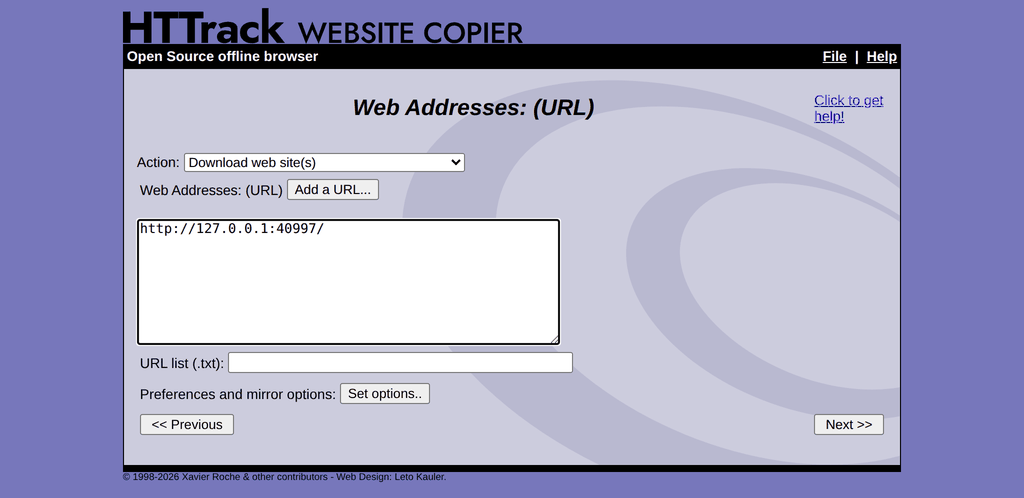
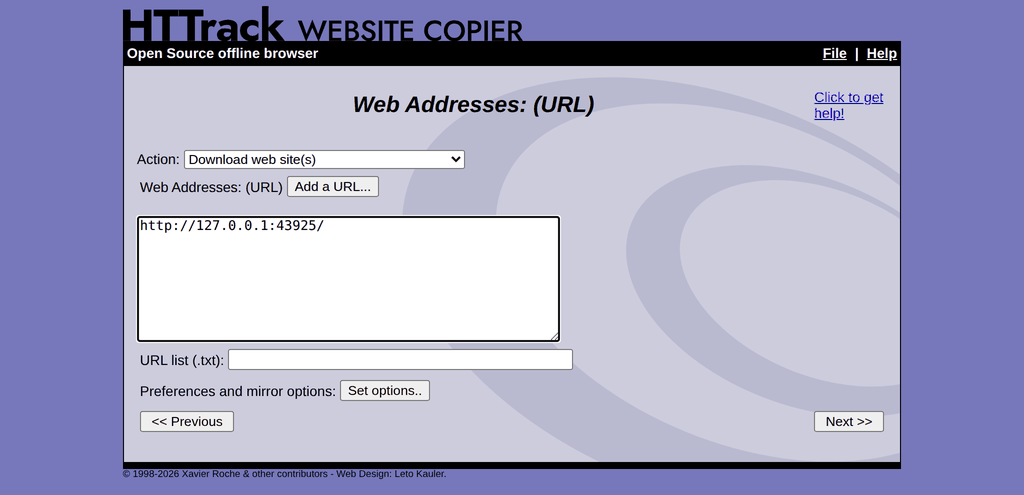
Reshoot the WebHTTrack screenshots after the masthead fix
Every screen carries the masthead, so ef100363 dated all eighteen.

diff --git a/html/guide.html b/html/guide.html
@@ -122,7 +122,7 @@ data-for="droid">Tap <b>Next</b></span> to create a project, or open one you alr
 
 <figure>
 	<img data-for="win" src="img/guide-win-start.png" alt="WinHTTrack welcome pane" width="1040" height="744">
-	<img data-for="web" src="img/guide-web-start.png" alt="WebHTTrack welcome page" width="1024" height="390">
+	<img data-for="web" src="img/guide-web-start.png" alt="WebHTTrack welcome page" width="1024" height="387">
 	<img data-for="droid" src="img/guide-droid-start.png" alt="HTTrack for Android welcome screen" width="600" height="1300">
 	<figcaption>The welcome screen.</figcaption>
 </figure>
@@ -143,7 +143,7 @@ together in the list.</p>
 
 <figure>
 	<img data-for="win" src="img/guide-win-project-name.png" alt="WinHTTrack project name, category and base path" width="1040" height="744">
-	<img data-for="web" src="img/guide-web-project-name.png" alt="WebHTTrack project name, category and base path" width="1024" height="348">
+	<img data-for="web" src="img/guide-web-project-name.png" alt="WebHTTrack project name, category and base path" width="1024" height="345">
 	<img data-for="droid" src="img/guide-droid-project-name.png" alt="Android project name, category and base path" width="600" height="1300">
 	<figcaption>Project name, category, and where the files go.</figcaption>
 </figure>
@@ -162,7 +162,7 @@ keep their links to each other.</p>
 
 <figure>
 	<img data-for="win" src="img/guide-win-project-setup.png" alt="WinHTTrack action and web addresses" width="1040" height="744">
-	<img data-for="web" src="img/guide-web-project-setup.png" alt="WebHTTrack action and web addresses" width="1024" height="498">
+	<img data-for="web" src="img/guide-web-project-setup.png" alt="WebHTTrack action and web addresses" width="1024" height="495">
 	<img data-for="droid" src="img/guide-droid-project-setup.png" alt="Android web address and action" width="600" height="1300">
 	<figcaption>The addresses to copy, and what to do with them.</figcaption>
 </figure>
@@ -217,7 +217,7 @@ port, you point your browser at it as a proxy and click the link or the submit b
 usual, and the address the browser asks for is added to the project.</p>
 
 <figure data-for="web">
-	<img data-for="web" src="img/guide-web-add-url.png" alt="WebHTTrack add-a-URL dialog" width="1024" height="605">
+	<img data-for="web" src="img/guide-web-add-url.png" alt="WebHTTrack add-a-URL dialog" width="1024" height="600">
 	<figcaption>Adding a single address, with an optional login.</figcaption>
 </figure>
 
@@ -246,7 +246,7 @@ mirror straight away.</p>
 
 <figure data-for="win web">
 	<img data-for="win" src="img/guide-win-ready.png" alt="WinHTTrack connection settings before starting" width="1040" height="744">
-	<img data-for="web" src="img/guide-web-ready.png" alt="WebHTTrack ready to start" width="1024" height="492">
+	<img data-for="web" src="img/guide-web-ready.png" alt="WebHTTrack ready to start" width="1024" height="489">
 	<figcaption>The last screen before the mirror runs.</figcaption>
 </figure>
 
@@ -259,7 +259,7 @@ polite.</p>
 
 <figure>
 	<img data-for="win" src="img/guide-win-progress.png" alt="WinHTTrack mirror in progress" width="1040" height="744">
-	<img data-for="web" src="img/guide-web-progress.png" alt="WebHTTrack mirror in progress" width="1024" height="744">
+	<img data-for="web" src="img/guide-web-progress.png" alt="WebHTTrack mirror in progress" width="1024" height="742">
 	<img data-for="droid" src="img/guide-droid-progress.png" alt="Android mirror in progress" width="600" height="1300">
 	<figcaption>A crawl in flight.</figcaption>
 </figure>
@@ -279,7 +279,7 @@ mirrored pages are rewritten to point at each other, so it browses offline in an
 
 <figure>
 	<img data-for="win" src="img/guide-win-finished.png" alt="WinHTTrack mirror complete" width="1040" height="744">
-	<img data-for="web" src="img/guide-web-finished.png" alt="WebHTTrack mirror complete" width="1024" height="489">
+	<img data-for="web" src="img/guide-web-finished.png" alt="WebHTTrack mirror complete" width="1024" height="486">
 	<img data-for="droid" src="img/guide-droid-finished.png" alt="Android mirror complete" width="600" height="1300">
 	<figcaption>Done.</figcaption>
 </figure>
@@ -328,7 +328,7 @@ interface shows it, and the command-line option it corresponds to.</p>
 
 <figure>
 	<img data-for="win" src="img/guide-win-opt-scan-rules.png" alt="WinHTTrack Scan Rules tab" width="524" height="448">
-	<img data-for="web" src="img/guide-web-opt-scan-rules.png" alt="WebHTTrack Scan Rules tab" width="1024" height="998">
+	<img data-for="web" src="img/guide-web-opt-scan-rules.png" alt="WebHTTrack Scan Rules tab" width="1024" height="995">
 	<img data-for="droid" src="img/guide-droid-opt-scan-rules.png" alt="Android Scan Rules tab" width="600" height="1300">
 </figure>
 
@@ -365,7 +365,7 @@ is on the <a href="filters.html">filter page</a>.</p>
 
 <figure>
 	<img data-for="win" src="img/guide-win-opt-limits.png" alt="WinHTTrack Limits tab" width="524" height="448">
-	<img data-for="web" src="img/guide-web-opt-limits.png" alt="WebHTTrack Limits tab" width="1024" height="1019">
+	<img data-for="web" src="img/guide-web-opt-limits.png" alt="WebHTTrack Limits tab" width="1024" height="1016">
 	<img data-for="droid" src="img/guide-droid-opt-limits.png" alt="Android Limits tab" width="600" height="1300">
 </figure>
 
@@ -443,7 +443,7 @@ bottom are the ones that keep you welcome.</p>
 
 <figure>
 	<img data-for="win" src="img/guide-win-opt-flow-control.png" alt="WinHTTrack Flow Control tab" width="524" height="448">
-	<img data-for="web" src="img/guide-web-opt-flow-control.png" alt="WebHTTrack Flow Control tab" width="1024" height="866">
+	<img data-for="web" src="img/guide-web-opt-flow-control.png" alt="WebHTTrack Flow Control tab" width="1024" height="862">
 	<img data-for="droid" src="img/guide-droid-opt-flow-control.png" alt="Android Flow Control tab" width="600" height="1300">
 </figure>
 
@@ -486,7 +486,7 @@ bottom are the ones that keep you welcome.</p>
 
 <figure>
 	<img data-for="win" src="img/guide-win-opt-links.png" alt="WinHTTrack Links tab" width="524" height="448">
-	<img data-for="web" src="img/guide-web-opt-links.png" alt="WebHTTrack Links tab" width="1024" height="752">
+	<img data-for="web" src="img/guide-web-opt-links.png" alt="WebHTTrack Links tab" width="1024" height="749">
 	<img data-for="droid" src="img/guide-droid-opt-links.png" alt="Android Links tab" width="600" height="1300">
 </figure>
 
@@ -523,7 +523,7 @@ bottom are the ones that keep you welcome.</p>
 
 <figure>
 	<img data-for="win" src="img/guide-win-opt-build.png" alt="WinHTTrack Build tab" width="524" height="448">
-	<img data-for="web" src="img/guide-web-opt-build.png" alt="WebHTTrack Build tab" width="1024" height="979">
+	<img data-for="web" src="img/guide-web-opt-build.png" alt="WebHTTrack Build tab" width="1024" height="976">
 	<img data-for="droid" src="img/guide-droid-opt-build.png" alt="Android Build tab" width="600" height="1300">
 </figure>
 
@@ -589,7 +589,7 @@ bottom are the ones that keep you welcome.</p>
 
 <figure>
 	<img data-for="win" src="img/guide-win-opt-browser-id.png" alt="WinHTTrack Browser ID tab" width="524" height="448">
-	<img data-for="web" src="img/guide-web-opt-browser-id.png" alt="WebHTTrack Browser ID tab" width="1024" height="658">
+	<img data-for="web" src="img/guide-web-opt-browser-id.png" alt="WebHTTrack Browser ID tab" width="1024" height="654">
 	<img data-for="droid" src="img/guide-droid-opt-browser-id.png" alt="Android Browser ID tab" width="600" height="1300">
 </figure>
 
@@ -629,7 +629,7 @@ bottom are the ones that keep you welcome.</p>
 
 <figure>
 	<img data-for="win" src="img/guide-win-opt-spider.png" alt="WinHTTrack Spider tab" width="524" height="448">
-	<img data-for="web" src="img/guide-web-opt-spider.png" alt="WebHTTrack Spider tab" width="1024" height="1544">
+	<img data-for="web" src="img/guide-web-opt-spider.png" alt="WebHTTrack Spider tab" width="1024" height="1541">
 	<img data-for="droid" src="img/guide-droid-opt-spider.png" alt="Android Spider tab" width="600" height="1300">
 </figure>
 
@@ -716,7 +716,7 @@ bottom are the ones that keep you welcome.</p>
 
 <figure>
 	<img data-for="win" src="img/guide-win-opt-proxy.png" alt="WinHTTrack Proxy tab" width="524" height="448">
-	<img data-for="web" src="img/guide-web-opt-proxy.png" alt="WebHTTrack Proxy tab" width="1024" height="763">
+	<img data-for="web" src="img/guide-web-opt-proxy.png" alt="WebHTTrack Proxy tab" width="1024" height="760">
 	<img data-for="droid" src="img/guide-droid-opt-proxy.png" alt="Android Proxy tab" width="600" height="1300">
 </figure>
 
@@ -753,7 +753,7 @@ bottom are the ones that keep you welcome.</p>
 
 <figure>
 	<img data-for="win" src="img/guide-win-opt-log-index-cache.png" alt="WinHTTrack Log, Index, Cache tab" width="524" height="448">
-	<img data-for="web" src="img/guide-web-opt-log-index-cache.png" alt="WebHTTrack Log, Index, Cache tab" width="1024" height="1269">
+	<img data-for="web" src="img/guide-web-opt-log-index-cache.png" alt="WebHTTrack Log, Index, Cache tab" width="1024" height="1266">
 	<img data-for="droid" src="img/guide-droid-opt-log-index-cache.png" alt="Android Log, Index, Cache tab" width="600" height="1300">
 </figure>
 
@@ -821,7 +821,7 @@ bottom are the ones that keep you welcome.</p>
 
 <figure>
 	<img data-for="win" src="img/guide-win-opt-mime-types.png" alt="WinHTTrack MIME types tab" width="524" height="448">
-	<img data-for="web" src="img/guide-web-opt-mime-types.png" alt="WebHTTrack MIME types tab" width="1024" height="1050">
+	<img data-for="web" src="img/guide-web-opt-mime-types.png" alt="WebHTTrack MIME types tab" width="1024" height="1046">
 	<img data-for="droid" src="img/guide-droid-opt-mime-types.png" alt="Android MIME types tab" width="600" height="1300">
 </figure>
 
@@ -852,7 +852,7 @@ bottom are the ones that keep you welcome.</p>
 
 <figure>
 	<img data-for="win" src="img/guide-win-opt-experts-only.png" alt="WinHTTrack Experts Only tab" width="524" height="448">
-	<img data-for="web" src="img/guide-web-opt-experts-only.png" alt="WebHTTrack Experts Only tab" width="1024" height="1088">
+	<img data-for="web" src="img/guide-web-opt-experts-only.png" alt="WebHTTrack Experts Only tab" width="1024" height="1085">
 	<img data-for="droid" src="img/guide-droid-opt-experts-only.png" alt="Android Experts Only tab" width="600" height="1300">
 </figure>
 
